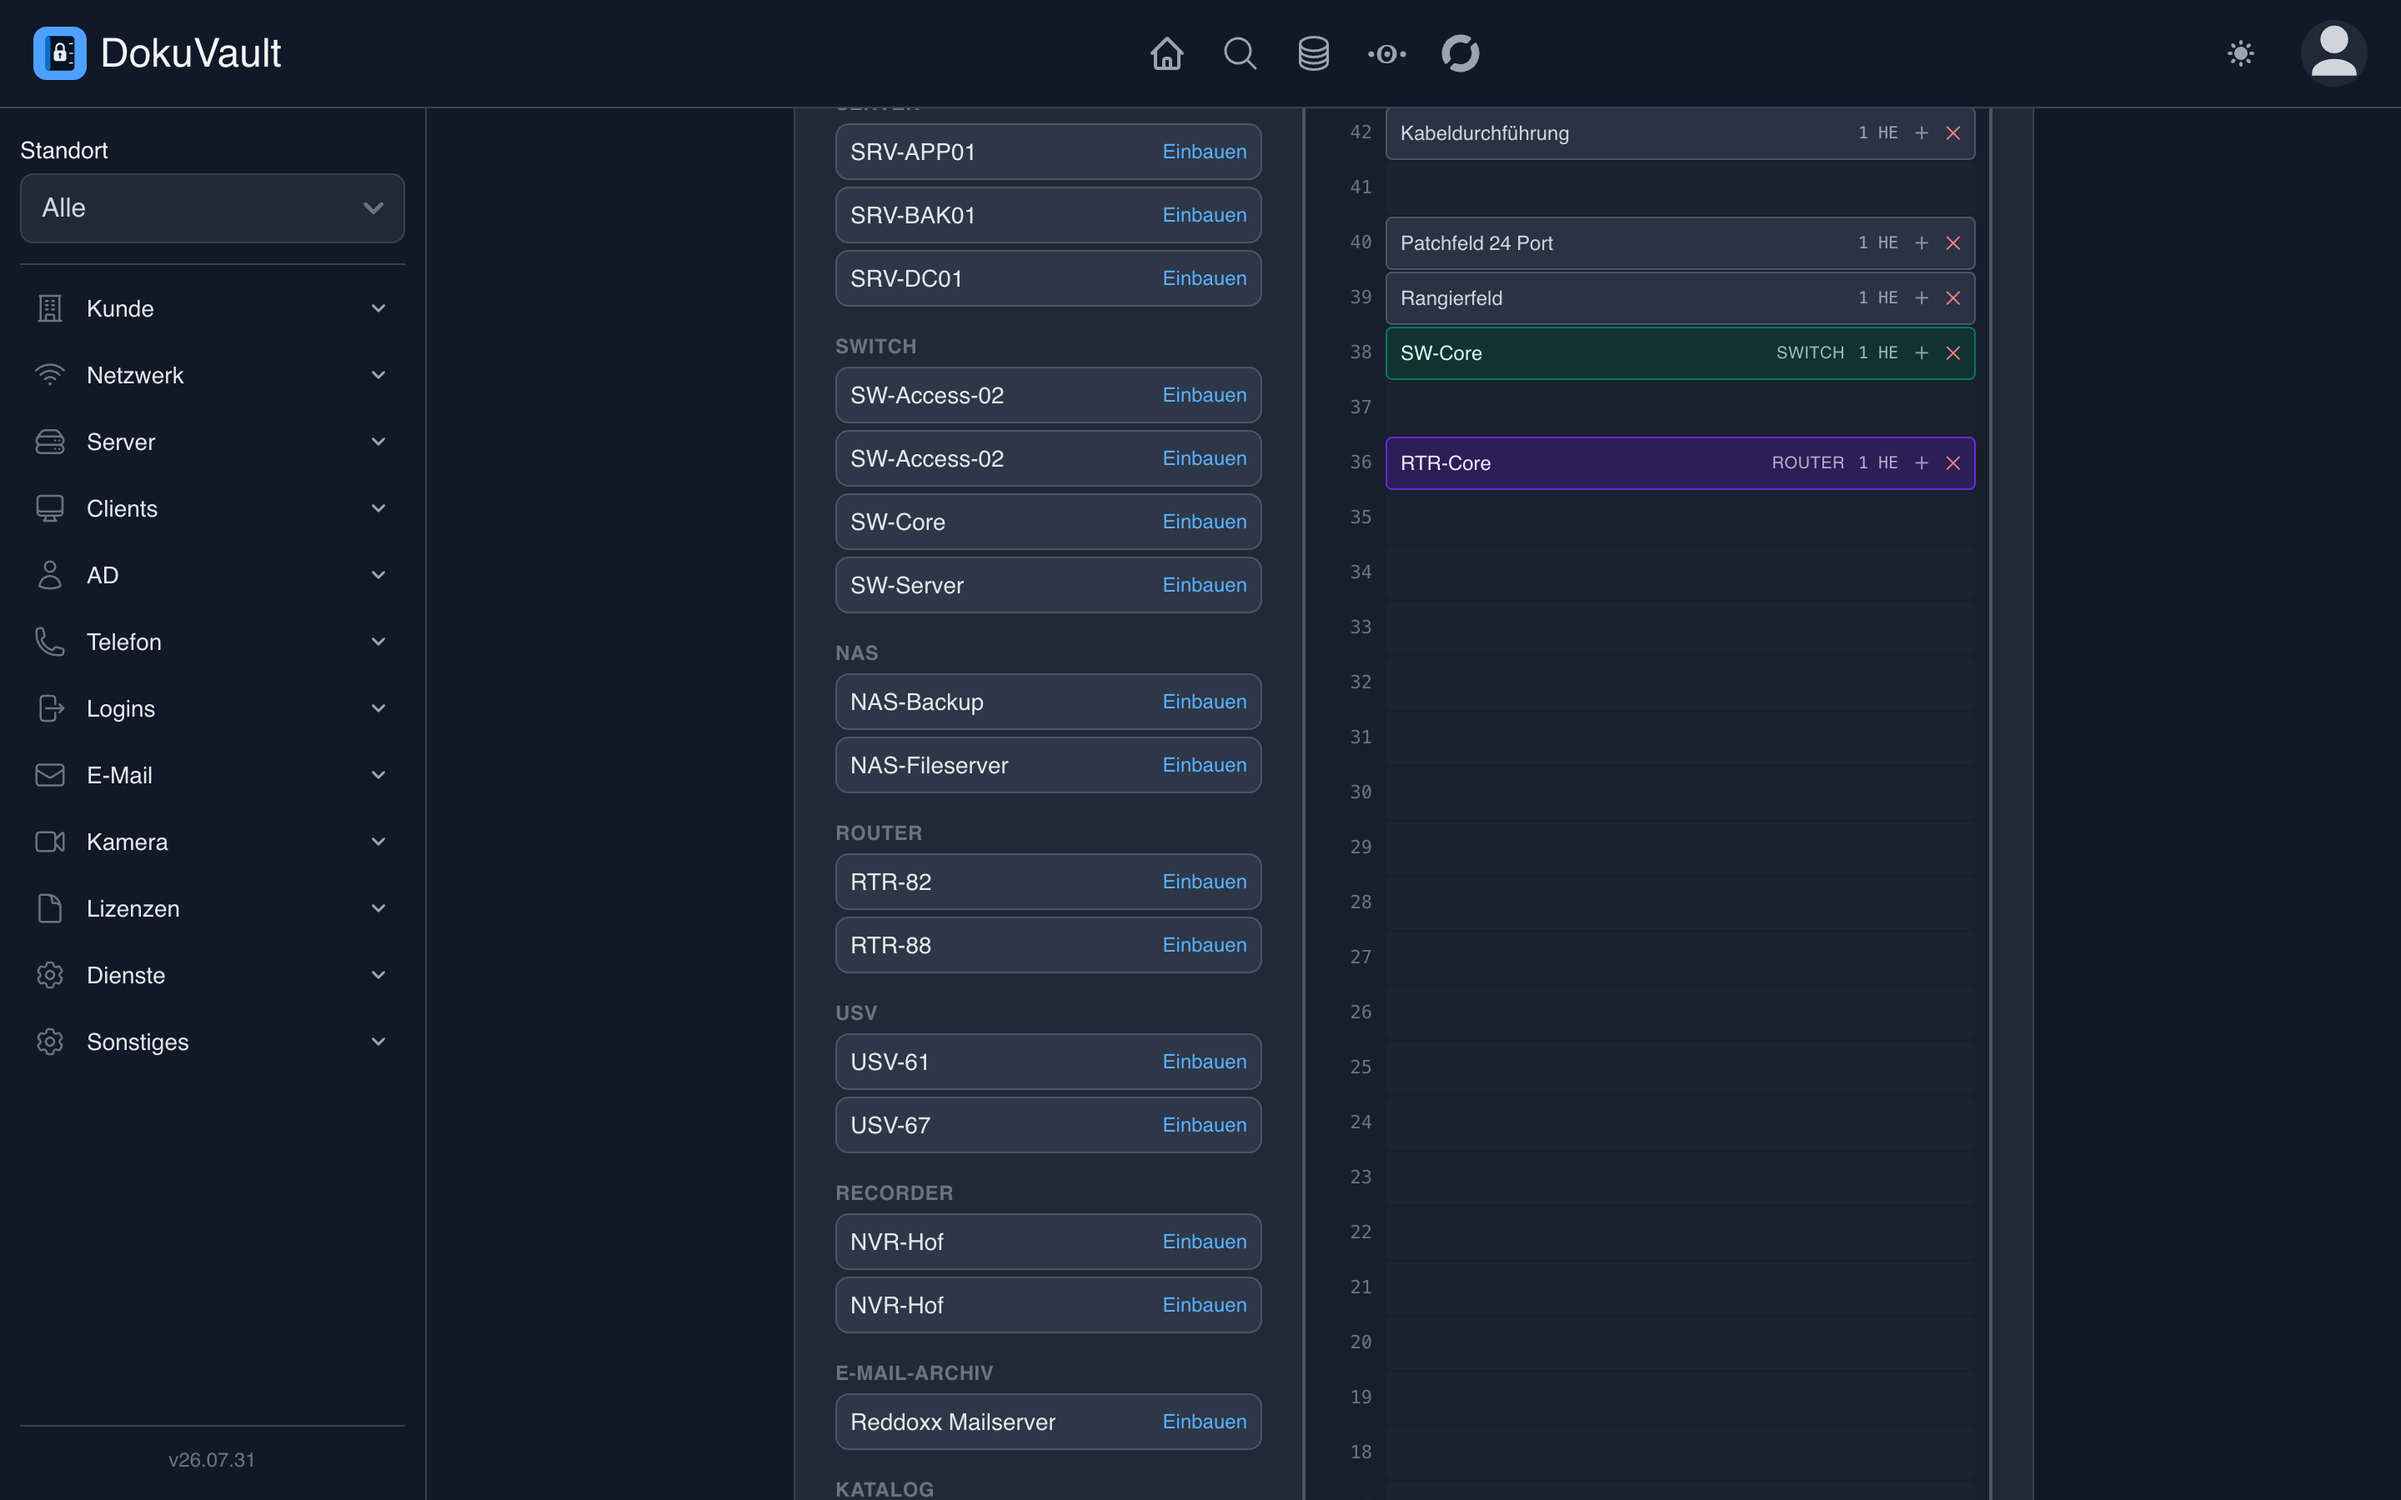
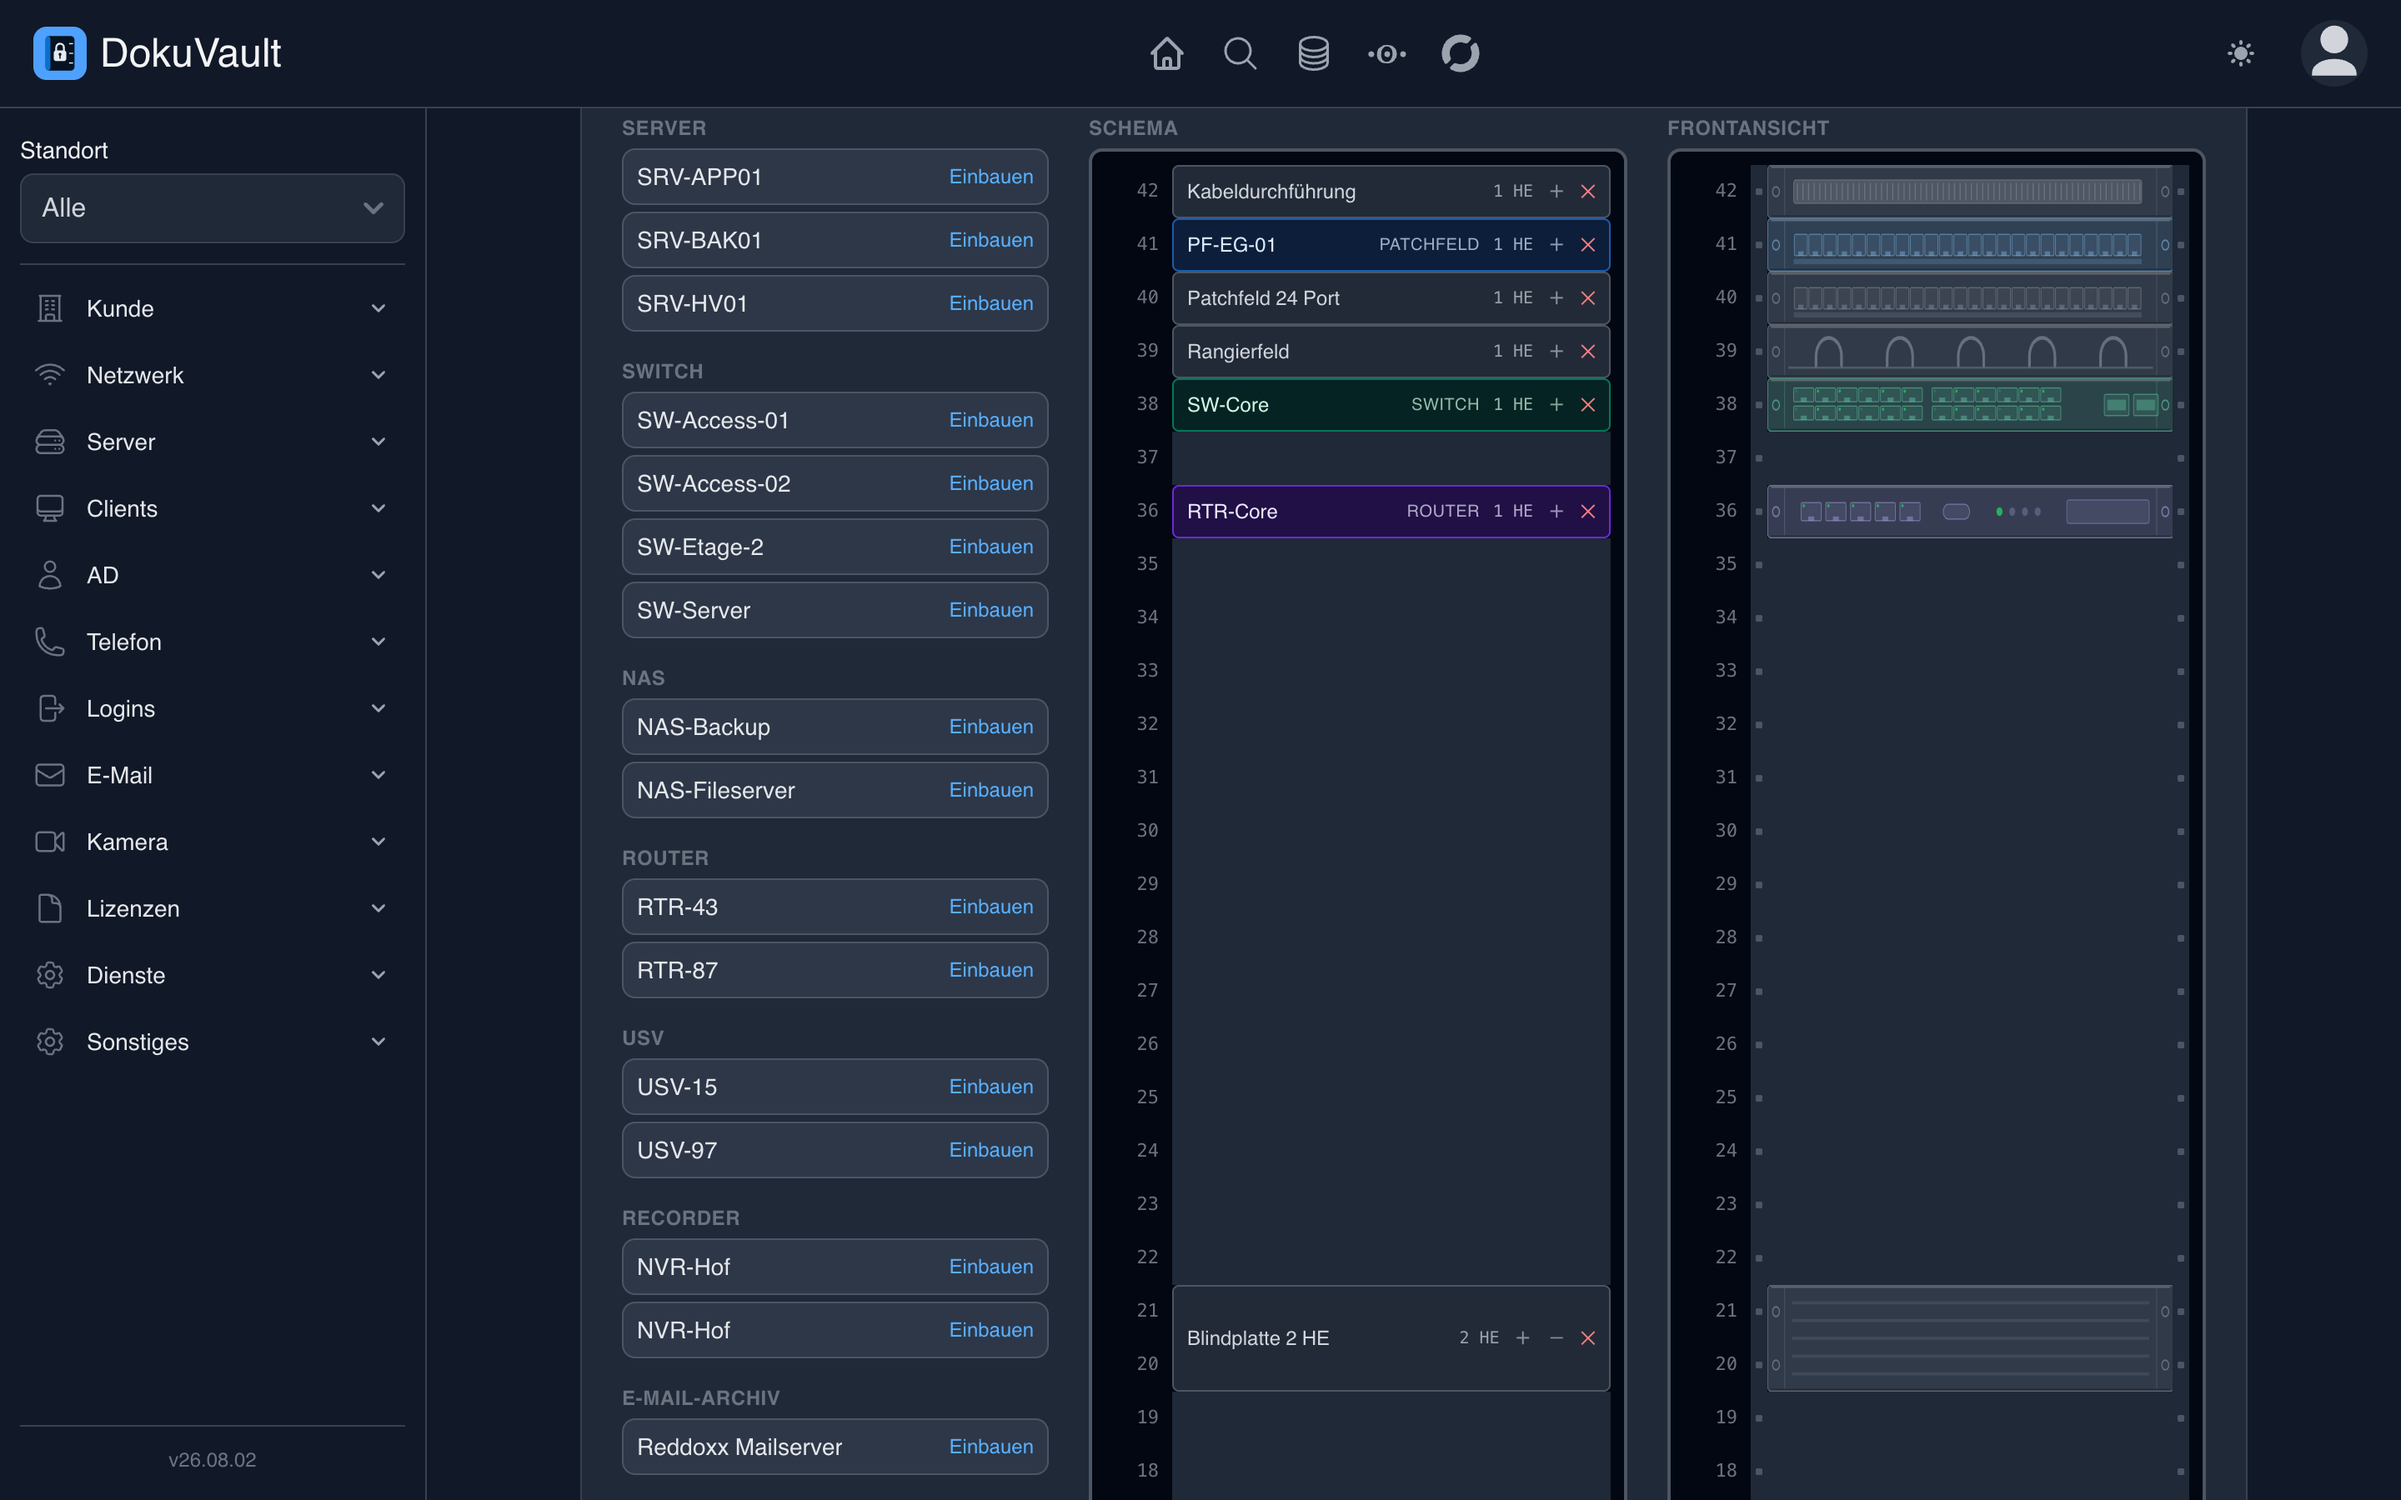
README: Patchfelder, Live-Demo und aktuelle Screenshots
Live-Demo prominent verlinkt - doku.dokuvault.de aktualisiert sich seit
heute bei jedem gruenen Testlauf selbst, das gehoert ganz nach oben.

Patchfelder fehlten bisher vollstaendig: jetzt in der Feature-Tabelle,
im Funktionsumfang und mit zwei Screenshots (Ports bearbeiten,
Dosenuebersicht).

Zwei Bilder waren veraltet: rack.png zeigte den Editor noch ohne die
gezeichnete Frontansicht daneben, rackcatalog.png den Katalog noch ohne
die Spalte Darstellung.

Dazu Testzahl 186 -> 216 in Badge, Tech-Stack und Test-Abschnitt, der
Serverschrank-Text um die Frontansicht ergaenzt und DEPLOYMENT.md
verlinkt - die Anleitung war bisher von nirgends erreichbar.

Changed region(s): [[0.25, 0.0622, 0.9062, 1.0]]

diff --git a/README.md b/README.md
@@ -13,8 +13,11 @@ PDF-Export, globaler Suche über alle Kunden und Geräten, die sich per Agent
 ![PHP](https://img.shields.io/badge/PHP-8.2+-777BB4?logo=php&logoColor=white)
 ![Laravel](https://img.shields.io/badge/Laravel-12-FF2D20?logo=laravel&logoColor=white)
 ![Livewire](https://img.shields.io/badge/Livewire-3-FB70A9)
-![Tests](https://img.shields.io/badge/Tests-186%20grün-3fb950)
+![Tests](https://img.shields.io/badge/Tests-216%20grün-3fb950)
 ![License](https://img.shields.io/badge/License-MIT-blue)
+
+**[▶ Live-Demo ausprobieren](https://doku.dokuvault.de)** · Anmeldung `admin` / `password`
+<br><sub>Alles darf verändert werden – die Demo setzt sich stündlich zurück.</sub>
 
 <br>
 
@@ -34,6 +37,7 @@ immer aktuell.
 | --- | --- |
 | 🏢 **Mandantenfähig** | Jeder Kunde mit eigenen Standorten, Geräten und Zugängen – sauber getrennt |
 | 🧭 **Erstaufnahme-Assistent** | 16 Schritte führen durch den Neukunden – Frage stellen, Antwort speichern, weiter |
+| 🔌 **Patchfelder** | Je Port die Dosennummer, den Raum und den Ziel-Switch – „wo hängt Dose A.12?" |
 | 🔎 **Globale Suche** | Server, IP, Seriennummer oder MAC über **alle** Kunden in Sekunden finden |
 | 🤖 **Auto-Dokumentation** | Ein Script auf dem Gerät – der Rest dokumentiert sich selbst (Proxmox, Windows AD) |
 | 🌐 **IPAM** | Belegte & freie IP-Adressen je VLAN auf einen Blick, DHCP- und Gateway-Erkennung |
@@ -62,10 +66,14 @@ immer aktuell.
   </tr>
   <tr>
     <td width="50%"><img src="docs/screenshots/wizard.png" alt="Erstaufnahme-Assistent"><br><sub><b>Erstaufnahme-Assistent</b> – eine Frage je Schritt, Bestand bleibt sichtbar</sub></td>
-    <td width="50%"><img src="docs/screenshots/rack.png" alt="Serverschrank-Editor"><br><sub><b>Serverschränke</b> – Geräte per Drag & Drop auf Höheneinheiten platzieren</sub></td>
+    <td width="50%"><img src="docs/screenshots/rack.png" alt="Serverschrank-Editor"><br><sub><b>Serverschränke</b> – Schema zum Bestücken, daneben die gezeichnete Frontansicht</sub></td>
   </tr>
   <tr>
-    <td width="50%"><img src="docs/screenshots/rackcatalog.png" alt="Rack-Katalog im Adminbereich"><br><sub><b>Rack-Katalog</b> – Patchfelder, Blindplatten & Co. im Adminbereich pflegen</sub></td>
+    <td width="50%"><img src="docs/screenshots/patchpanel.png" alt="Patchfeld-Ports bearbeiten"><br><sub><b>Patchfeld-Ports</b> – je Port Dosennummer, Raum und Ziel-Switch eintragen</sub></td>
+    <td width="50%"><img src="docs/screenshots/patchpanel-liste.png" alt="Patchfeld-Liste"><br><sub><b>Dosenübersicht</b> – welche Dose auf welchem Switch-Port liegt</sub></td>
+  </tr>
+  <tr>
+    <td width="50%"><img src="docs/screenshots/rackcatalog.png" alt="Rack-Katalog im Adminbereich"><br><sub><b>Rack-Katalog</b> – Blindplatten, Fachböden & Co. im Adminbereich pflegen</sub></td>
     <td width="50%"><img src="docs/screenshots/login.png" alt="Anmeldung"><br><sub><b>Anmeldung</b> – Hell- und Dunkelmodus folgen dem System</sub></td>
   </tr>
 </table>
@@ -136,9 +144,12 @@ Agenten folgen.
 
 - **Kunden & Standorte** – mehrmandantenfähige Struktur je Kunde
 - **Infrastruktur** – Server, VMs (mit Host-Zuordnung), NAS, Computer, USV, Maschinen, IoT
-- **Serverschränke** – Racks mit Drag-&-Drop-Bestückung: dokumentierte Geräte und Patchfelder
-  je Höheneinheit platzieren, Frontansicht in Liste und Editor; der Katalog passiver Elemente
-  wird im Adminbereich gepflegt
+- **Serverschränke** – Racks mit Drag-&-Drop-Bestückung: dokumentierte Geräte und passive
+  Elemente je Höheneinheit platzieren. Neben dem beschrifteten Schema eine gezeichnete
+  Frontansicht, die sich der Höhe anpasst; der Katalog passiver Elemente wird im
+  Adminbereich gepflegt
+- **Patchfelder** – je Port Dosennummer, Raum und Ziel-Switch samt Portnummer; die Portzeilen
+  entstehen automatisch aus der Portanzahl
 - **Netzwerk** – Router, Switches, Access Points, WLAN, VLANs, **IPAM**, Internet/WAN, UTM-Firewalls
 - **Active Directory** – Domains, Benutzer, Gruppen
 - **Kommunikation** – Telefonanlagen, DECT, E-Mail-Postfächer, E-Mail-Archivierung
@@ -194,7 +205,7 @@ Klartext weder in der Datenbank noch im Audit-Log landet.
 | **Pakete** | spatie/laravel-activitylog 4.12 *(Audit-Log)* · spatie/laravel-pdf 1.9 *(PDF via Browsershot/Puppeteer)* · spatie/laravel-backup 9.3 |
 | **Frontend** | Tailwind CSS 3.2 · Alpine.js 3 · Flowbite 1.6 · Vite 3 |
 | **Datenbank** | MySQL / MariaDB |
-| **Qualität** | Pest 3 *(186 Tests)* · Laravel Pint · GitHub Actions CI |
+| **Qualität** | Pest 3 *(216 Tests)* · Laravel Pint · GitHub Actions CI |
 
 ---
 
@@ -244,6 +255,13 @@ php artisan db:seed --force          # führt den ProductionDatabaseSeeder aus
 > das Seeding fehl (`fake()` nicht gefunden) – dann entweder `APP_ENV=production` setzen oder
 > mit Dev-Paketen installieren.
 
+### Automatisch deployen
+
+Ein Push auf `main` kann den Server selbst aktualisieren: Erst laufen die Tests, und nur
+wenn sie grün sind, holt eine GitHub-Action per SSH den neuen Stand, migriert und baut die
+Caches neu. Einrichtung, Secrets und der stündliche Reset einer öffentlichen Demo stehen in
+**[DEPLOYMENT.md](DEPLOYMENT.md)**.
+
 ---
 
 ## 👥 Rollen & Demo-Zugänge
@@ -268,7 +286,7 @@ php artisan db:seed --force          # führt den ProductionDatabaseSeeder aus
 
 ## 🧪 Tests
 
-186 Feature-Tests (Pest 3) laufen gegen eine In-Memory-SQLite – keine Einrichtung nötig, keine
+216 Feature-Tests (Pest 3) laufen gegen eine In-Memory-SQLite – keine Einrichtung nötig, keine
 Spuren in der Entwicklungsdatenbank. Bei jedem Push führt GitHub Actions dieselbe Suite aus.
 
 ```bash
